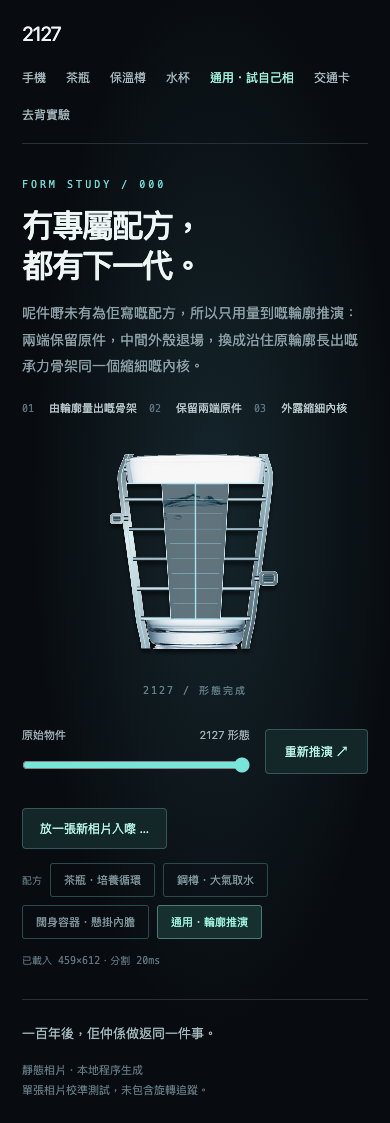
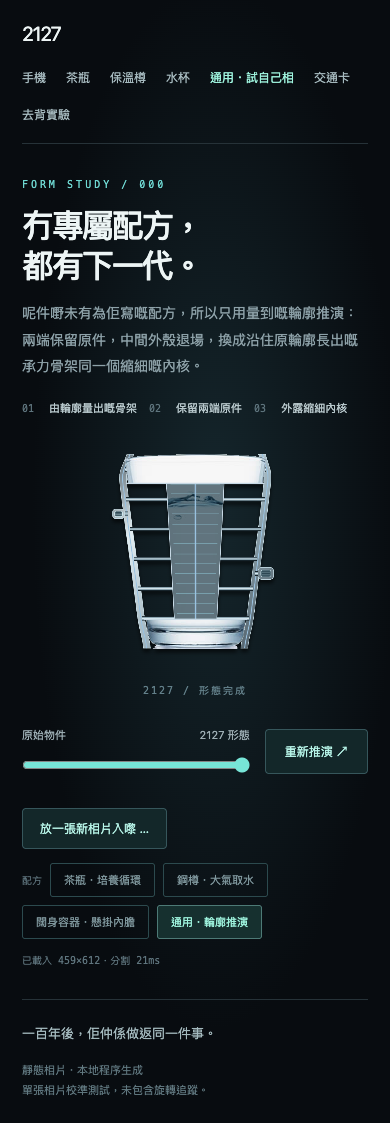
feat(studies): give each photo its own accent and proportions
通用配方唔再係一種造型塗晒所有相：

- 光色由物件自己嘅像素量出（accentOf：遮罩內平均色 → HSL；接近灰色
  嘅物件保留中性青色，唔會硬套一個佢張相本身冇嘅色相）。
- 骨架比例由剪影推：seed 來自 kept／闊／高，決定核心收窄比例、外框
  厚度、橫撐間距、模組位置同大細。完全確定性，唔用亂數 —— build()
  每次切配方都會重跑，同一張相必須落同一個未來。

Claude-Session: https://claude.ai/code/session_01Xbqts8uz557AYsPHVhYA2D

Changed region(s): [[0.4, 0.4363, 0.5846, 0.561], [0.6154, 0.4052, 0.7077, 0.5922], [0.2769, 0.4052, 0.3692, 0.5922]]

diff --git a/studies.html b/studies.html
@@ -253,34 +253,54 @@ function cup(){
 // photographed, the shell between them goes, and what replaces it is a shrunken core inside an
 // exo-frame that traces and overshoots the original outline. This is the deliberate house form for
 // "not one of the authored classes" — it is not a claim that the object was recognised.
+// The accent light is measured from the object's own pixels, so a banana's future glows amber and
+// a steel flask's stays cold, instead of one house colour being painted over everything. A nearly
+// grey object keeps the neutral cyan rather than being given a hue that its own photo never had.
+function accentOf(canvas){
+ const w=canvas.width,h=canvas.height,d=canvas.getContext('2d').getImageData(0,0,w,h).data;
+ let r=0,g=0,b=0,n=0;
+ for(let i=0;i<w*h;i+=7){const j=i*4;if(d[j+3]<200)continue;r+=d[j];g+=d[j+1];b+=d[j+2];n++;}
+ if(!n)return{h:190,s:.55};
+ r/=n*255;g/=n*255;b/=n*255;
+ const mx=Math.max(r,g,b),mn=Math.min(r,g,b),l=(mx+mn)/2;let hue=190,sat=0;
+ if(mx!==mn){const dd=mx-mn;sat=l>.5?dd/(2-mx-mn):dd/(mx+mn);
+  hue=60*(mx===r?(g-b)/dd+(g<b?6:0):mx===g?(b-r)/dd+2:(r-g)/dd+4);}
+ return sat<.08?{h:190,s:.55}:{h:hue,s:Math.min(.8,.35+sat)};
+}
 function generic(){
  const c=future.getContext('2d');c.scale(2,2);
  const{k,dx,dy}=place,long=(place.base-place.top)>=place.hw*2?'y':'x';
+ const A=place.accent,glowC=`hsl(${A.h.toFixed(1)} ${(A.s*100).toFixed(0)}% 74%)`,
+  rimC=`hsl(${A.h.toFixed(1)} ${(A.s*70).toFixed(0)}% 84%)`;
+ // Deterministic variation from the measured silhouette — never a random number, because build()
+ // re-runs on every recipe switch and the same photo must land on the same future each time.
+ const seed=(Math.round(anchors.kept*9973)+anchors.width*31+(anchors.base-anchors.top)*17)>>>0;
+ const vary=(i,lo,hi)=>lo+((seed>>(i*3))%97)/96*(hi-lo);
  const raw=maskProfile(anchors.canvas,long);if(raw.length<8)return;
  const pr=raw.map(p=>long==='y'?{a:p.a*k+dy,lo:p.lo*k+dx,hi:p.hi*k+dx}:{a:p.a*k+dx,lo:p.lo*k+dy,hi:p.hi*k+dy});
  const A0=pr[0].a,A1=pr[pr.length-1].a,band=Math.max(20,(A1-A0)*.15),span=A1-A0;
  const XY=(a,b)=>long==='y'?[b,a]:[a,b];
- const mid=p=>(p.lo+p.hi)/2,half=p=>Math.max(3,(p.hi-p.lo)/2*.5);
+ const shrink=vary(1,.42,.6),mid=p=>(p.lo+p.hi)/2,half=p=>Math.max(3,(p.hi-p.lo)/2*shrink);
  const pearl=grad(c,150,90,590,410,[[0,'#2b3a44'],[.26,'#e2edf1'],[.58,'#93a9b4'],[1,'#25313a']]);
  const skin=grad(c,150,90,590,410,[[0,'#1d2c34'],[.3,'#9fbcc6'],[.7,'#54707c'],[1,'#182329']]);
  const strut=(d,w=7)=>{line(c,d,'#16232a',w+3);line(c,d,'#8ea7b3',w);line(c,d,'#dcecf2',1.1);};
  const poly=(pts)=>{const p=new Path2D();pts.forEach(([x,y],i)=>i?p.lineTo(x,y):p.moveTo(x,y));p.closePath();return p;};
  // Exo-frame: two ribbons following the measured outline, standing just outside where the old
  // shell used to be. They run the full length, so the surviving ends hold them at both extremes.
- const off=Math.min(14,Math.max(5,span*.022));
+ const off=Math.min(14,Math.max(5,span*vary(6,.018,.028)));
  for(const sgn of [-1,1]){
   const outer=pr.map(p=>XY(p.a,(sgn<0?p.lo:p.hi)+sgn*off*2.4));
   const inner=pr.map(p=>XY(p.a,(sgn<0?p.lo:p.hi)+sgn*off*.4)).reverse();
   shape(c,poly(outer.concat(inner)),pearl,'#cfe3ea',.8);
   const glow=new Path2D();pr.forEach((p,i)=>{const[x,y]=XY(p.a,(sgn<0?p.lo:p.hi)+sgn*off*1.5);i?glow.lineTo(x,y):glow.moveTo(x,y);});
-  line(c,glow,'#a9e6f0',1.2,3);
+  line(c,glow,glowC,1.2,3);
  }
  // Cross members tie the frame to the core, so nothing in the new structure floats free.
- for(let i=3;i<pr.length-3;i+=6){const p=pr[i];
+ for(let i=3;i<pr.length-3;i+=Math.round(vary(0,4,8))){const p=pr[i];
   for(const sgn of [-1,1]){const e=sgn<0?p.lo:p.hi,m=mid(p)+sgn*half(p);
    strut(`M${XY(p.a,e+sgn*off*1.2).join(' ')} L${XY(p.a,m).join(' ')}`,5);}}
  // Two unequal modules seated on the frame at measured stations.
- for(const[t,sgn,f]of [[.34,-1,.9],[.63,1,1.25]]){
+ for(const[t,sgn,f]of [[vary(2,.24,.4),-1,vary(4,.8,1.05)],[vary(3,.58,.74),1,vary(5,1.05,1.4)]]){
   const p=pr[Math.round(t*(pr.length-1))],e=sgn<0?p.lo:p.hi,r=Math.min(26,Math.max(9,span*.038))*f;
   const[x,y]=XY(p.a,e+sgn*(off*2.4+r*.85));
   strut(`M${XY(p.a,e+sgn*8).join(' ')} L${x} ${y}`,6);
@@ -294,17 +314,17 @@ function generic(){
  if(inner.length>2){
   const core=poly(inner.map(p=>XY(p.a,mid(p)-half(p))).concat(inner.map(p=>XY(p.a,mid(p)+half(p))).reverse()));
   c.save();c.clip(core);c.drawImage(source,0,0,728,485);c.fillStyle='#12303ea6';c.fillRect(0,0,728,485);c.restore();
-  shape(c,core,null,'#cbe4ec',1.3);
-  for(let i=2;i<inner.length-2;i+=3){const p=inner[i];
+  shape(c,core,null,rimC,1.3);
+  for(let i=2;i<inner.length-2;i+=Math.round(vary(7,2,4))){const p=inner[i];
    line(c,`M${XY(p.a,mid(p)-half(p)*.86).join(' ')} L${XY(p.a,mid(p)+half(p)*.86).join(' ')}`,'#8fc9d980',1.4);}
   const spine=new Path2D();inner.forEach((p,i)=>{const[x,y]=XY(p.a,mid(p));i?spine.lineTo(x,y):spine.moveTo(x,y);});
-  line(c,spine,'#a9e6f0',1.6,4);}
+  line(c,spine,glowC,1.6,4);}
  // The two surviving ends, drawn last so every new member reads as seated into them.
  const keep=(a0,a1)=>{c.save();c.beginPath();long==='y'?c.rect(0,a0,728,a1-a0):c.rect(a0,0,a1-a0,485);
   c.clip();c.drawImage(source,0,0,728,485);c.restore();};
  keep(A0-12,A0+band);keep(A1-band,A1+12);
  for(const a of [A0+band,A1-band]){const p=pr.reduce((m,q)=>Math.abs(q.a-a)<Math.abs(m.a-a)?q:m,pr[0]);
-  line(c,`M${XY(a,p.lo-4).join(' ')} L${XY(a,p.hi+4).join(' ')}`,'#bfe6f0',2,3);}
+  line(c,`M${XY(a,p.lo-4).join(' ')} L${XY(a,p.hi+4).join(' ')}`,rimC,2,3);}
 }
 const RANGE={bottle:[.15,.6],flask:[.15,.6],cup:[.6,1.15],generic:[.02,50]},RNAME={bottle:'茶瓶',flask:'保溫樽',cup:'闊身容器',generic:'通用'};
 // Any photo that segments must produce something, so a new photo starts on the generic evolution.
@@ -341,7 +361,7 @@ function build(prepared=null){
   const wide=recipe==='generic',k=wide?Math.min(366/(s.base-s.top),524/s.width):428.2/(s.base-s.top);
   const dx=364.8-s.cx*k,dy=wide?236.4-(s.top+s.base)/2*k:22.3-s.top*k;
   c.drawImage(s.canvas,dx,dy,s.canvas.width*k,s.canvas.height*k);
-  place={k,dx,dy,top:s.top*k+dy,base:s.base*k+dy,hw:s.width*k/2};
+  place={k,dx,dy,top:s.top*k+dy,base:s.base*k+dy,hw:s.width*k/2,accent:accentOf(s.canvas)};
   anchors=s;renderFuture();
  }else{
   c.save();const clip=new Path2D();clip.roundRect(83,85,562,352,19);c.clip(clip);c.drawImage(photo,155,190,938,588,83,85,562,352);c.restore();renderFuture();

diff --git a/memory-bank/20-status.md b/memory-bank/20-status.md
@@ -2,6 +2,12 @@
 
 最後更新：2026-09-08
 
+## 通用配方個人化（2026-09-08）
+
+- 光色由**物件自己嘅像素**量出嚟（`accentOf()`：遮罩內平均色 → HSL，飽和度 <.08 當中性保留原本青色）。香蕉出琥珀、士多啤梨出珊瑚紅、鋼樽維持冷色。唔係一種房子色塗晒所有嘢。
+- 骨架比例由剪影推：`seed` 來自 kept／闊／高，`vary()` 決定核心收窄比例、外框厚度、橫撐間距、兩個模組嘅位置同大細。**完全確定性**（`build()` 每次切配方都會重跑，同一張相一定同一個未來），唔用亂數 —— 同 README 講咗嘅「稀有度由幾何算」同一原則。
+- 檢查照樣全綠（含 `build() is re-runnable without drift`）。
+
 ## 通用配方：任何相都有演化（2026-09-08）
 
 - 目標改為「放張相入去就見到一百年後」。新增 `generic()`：**唔靠配方，靠量到嘅剪影**。
